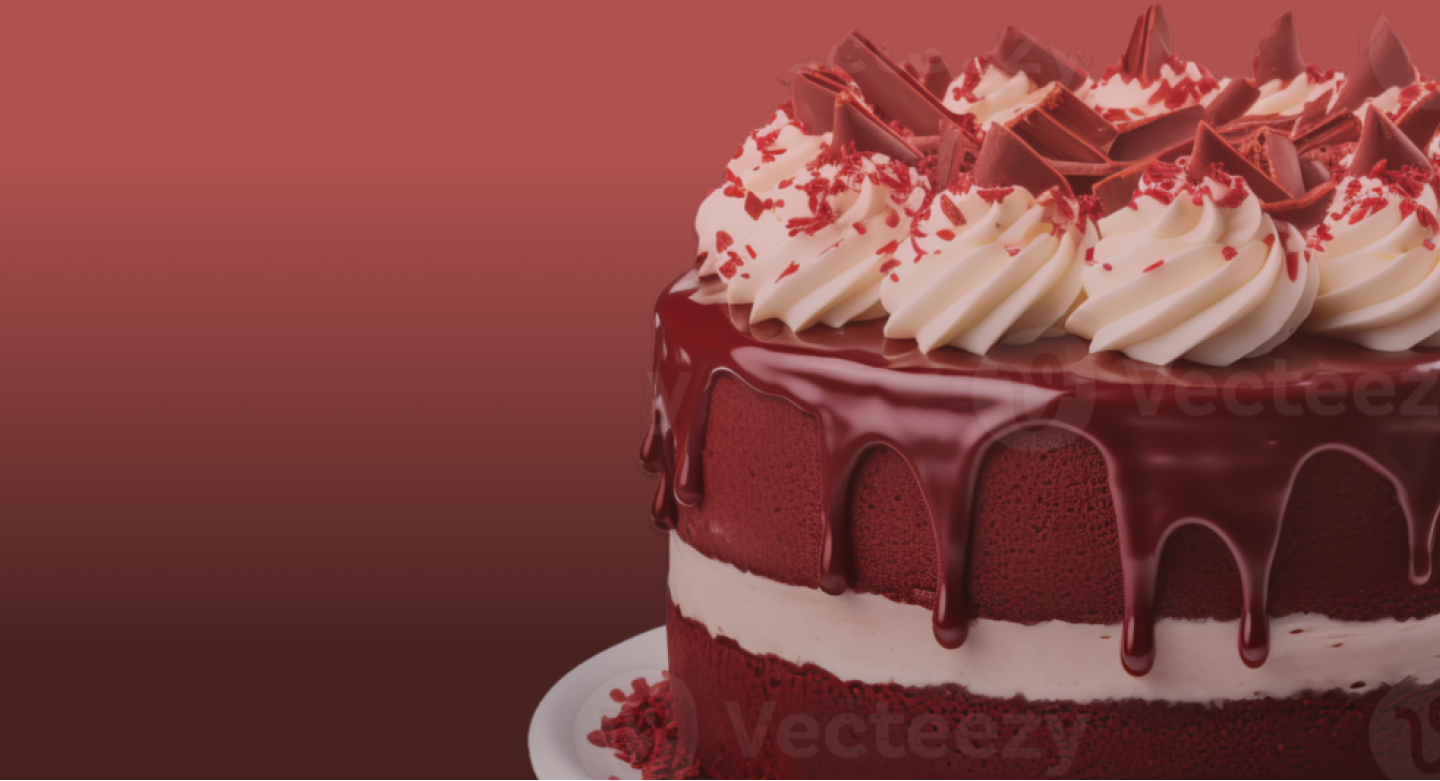
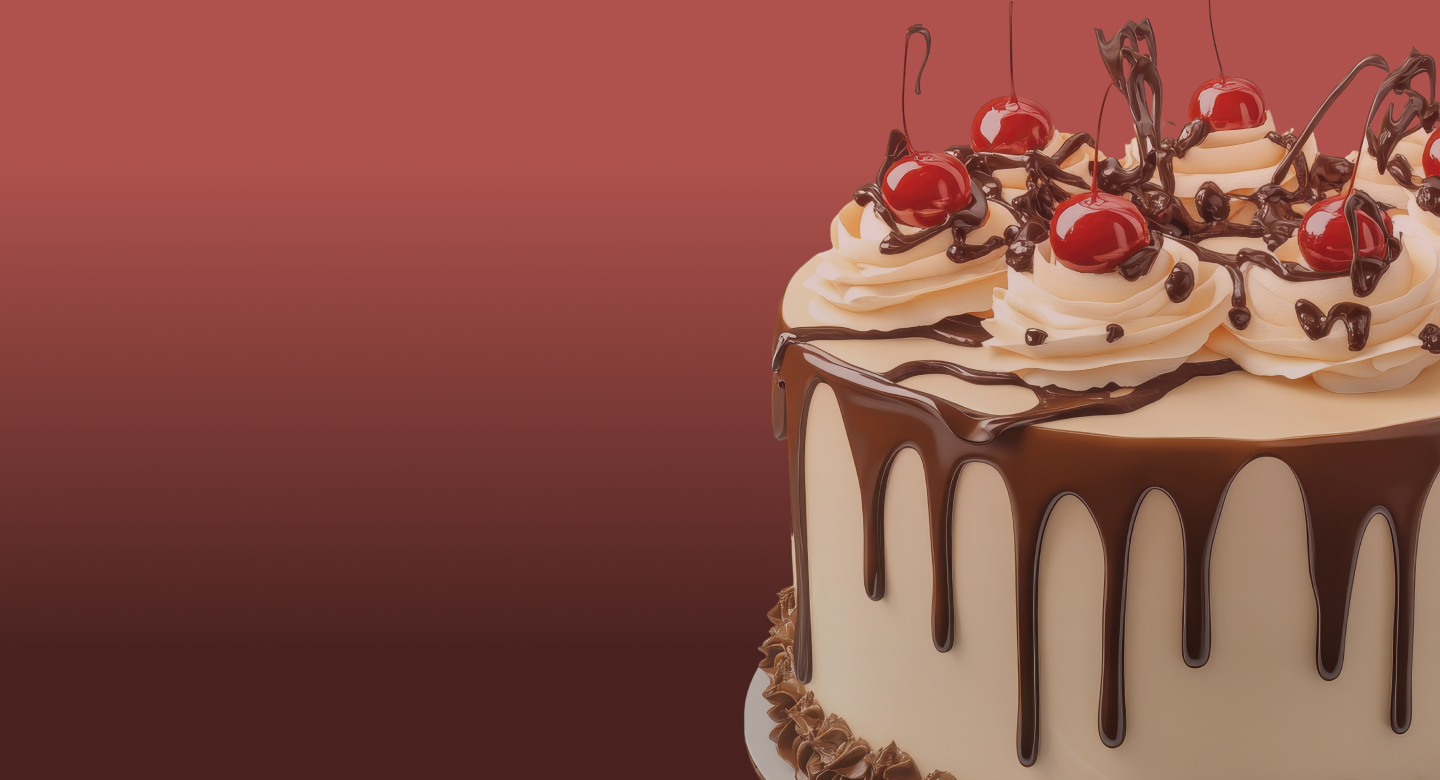
Updated Home page

diff --git a/src/sections/CakeCustom.jsx b/src/sections/CakeCustom.jsx
@@ -17,7 +17,7 @@ const CakeCustom = () => {
 
   {/* Cake image with hotspots */}
   <div className="relative w-full max-w-4xl p-11">
-    <img src="/image 4.png" alt="Cake" className="w-full mx-auto" />
+    <img src="/Section 3.png" alt="Cake" className="w-full mx-auto" />
 
     {/* Button positions */}
     <motion.button
